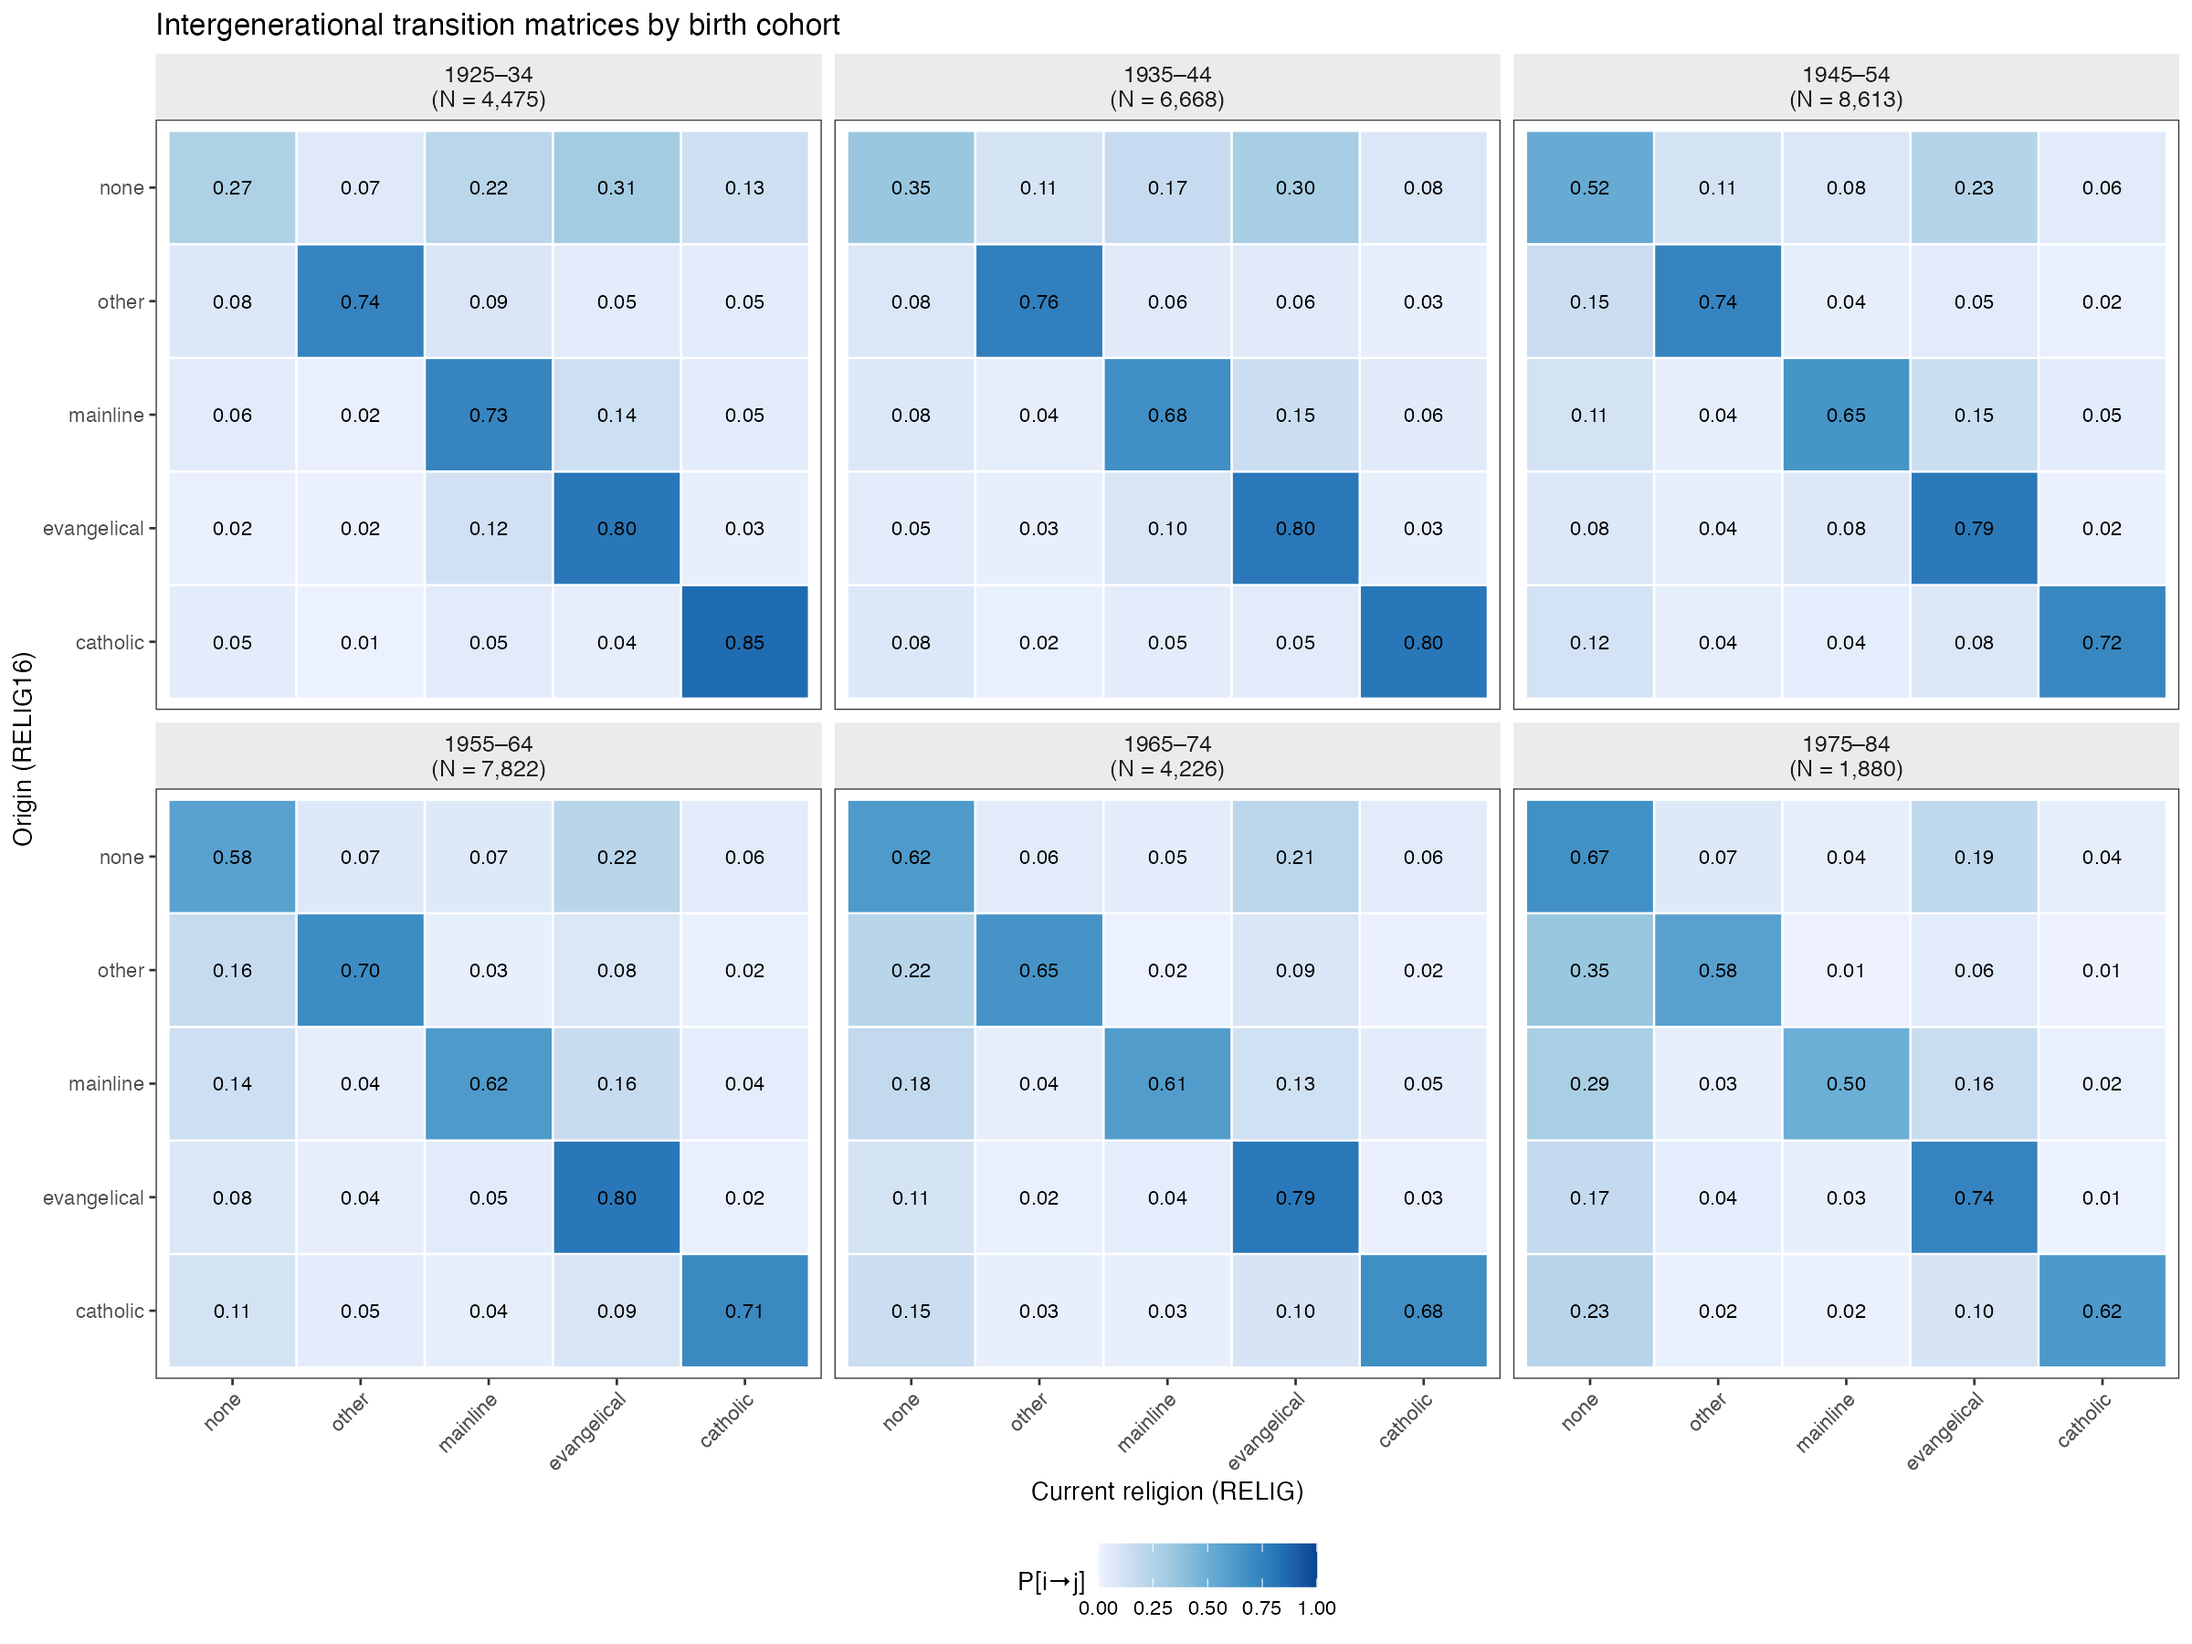
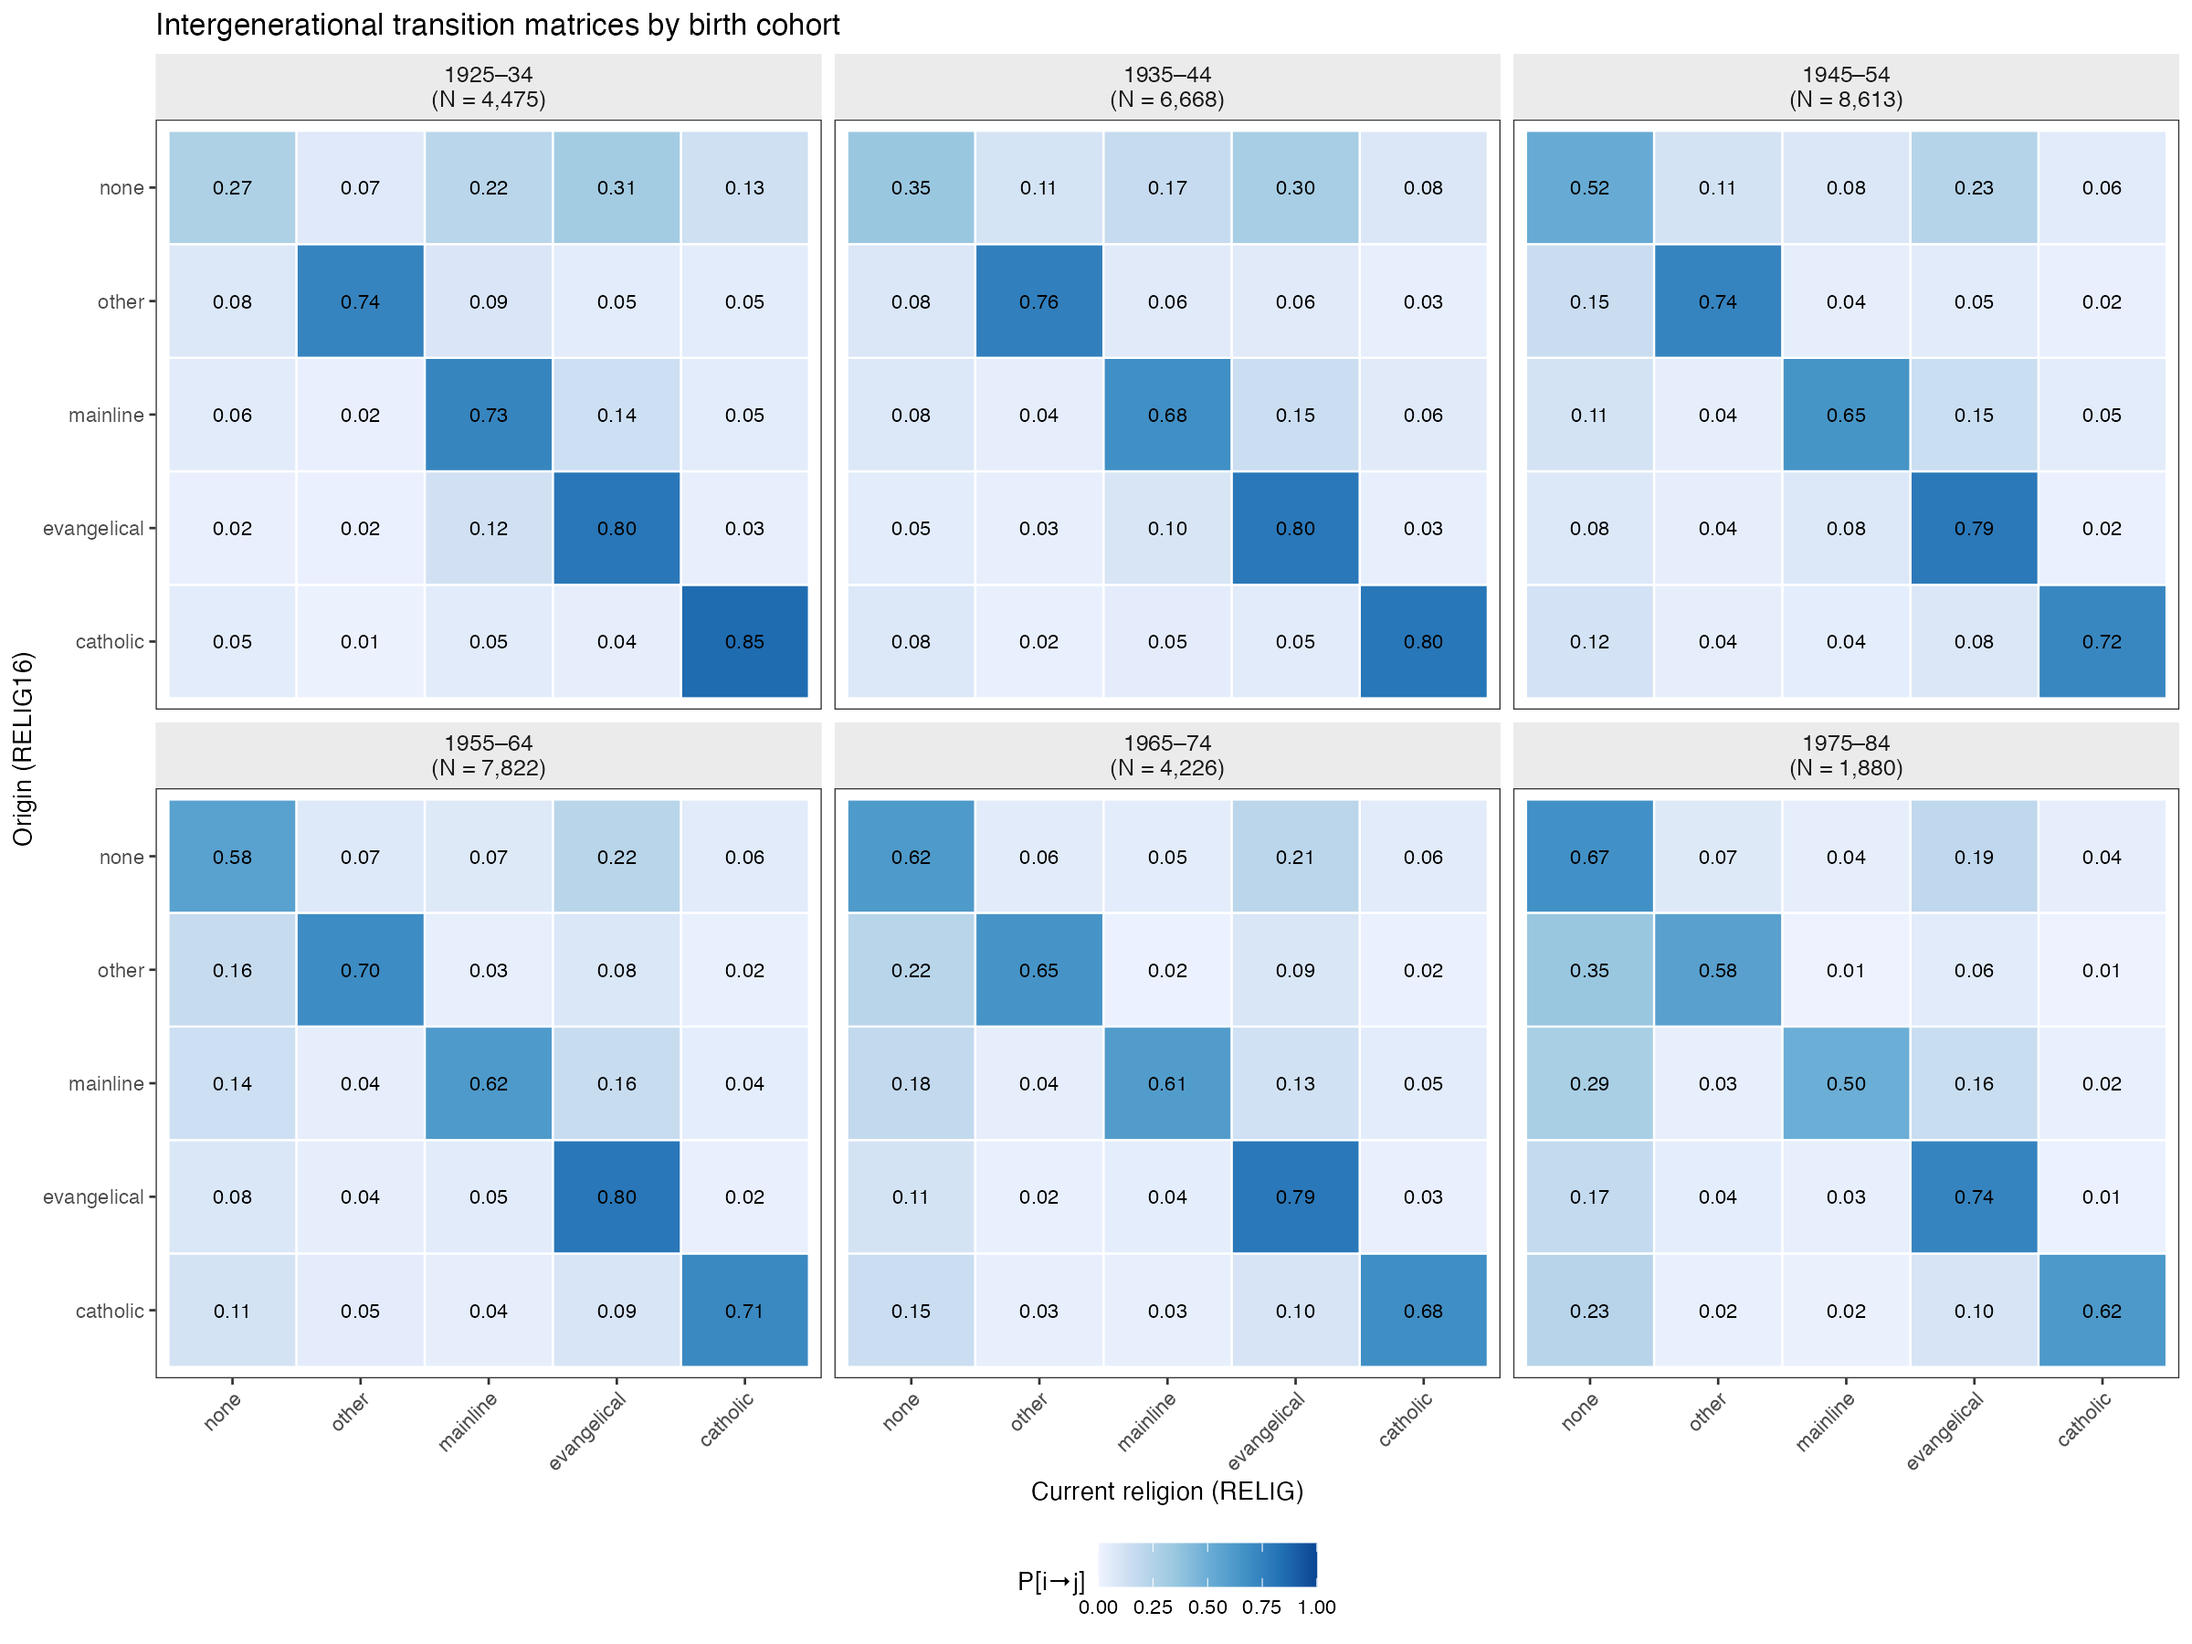
fertility

Changed region(s): [[0.9375, 0.84, 0.9688, 0.8711], [0.2188, 0.4356, 0.25, 0.4667]]

diff --git a/CLAUDE.md b/CLAUDE.md
@@ -122,38 +122,6 @@ Three frameworks map onto specific predictions about memory-curve shapes:
 
 Hout (2017): ~20% of Americans are "liminal" (cycling between affiliation and nonaffiliation) — complicates the absorbing-state assumption across all three frameworks.
 
----
-
-## Three-Week Action Plan
-
-| Week | Days | Tasks |
-|------|------|-------|
-| 1 | 1–2 | Foundational reading |
-| 1 | 3 | State-space decision with cell-count analysis |
-| 1 | 4 | Cohort-specific transition matrices with bootstrapped CIs |
-| 1 | 5 | Eigenvalue decomposition and preliminary memory curves |
-| 2 | 6–7 | Acquire/process Add Health; construct P_AddHealth; compare to P_GSS |
-| 2 | 8–9 | NSYR comparison; GSS internal consistency check |
-| 2 | 10 | Synthesize measurement findings in 3–5 page memo |
-| 3 | 11 | Sensitivity analysis on memory curves under alternative misclassification scenarios |
-| 3 | 12 | Goodman RC model exploration |
-| 3 | 13 | Formal results assembly — all figures and tables |
-| 3 | 14–15 | Paper skeleton; draft introduction + measurement section |
-
-**Current status** (as of June 2026): Weeks 1–2 complete. GSS transition matrices built, λ₂ and memory curves computed for national cohort windows (5/10-year bins). Hout (2016) replicated and extended (Figs 1–6). Add Health W1/W3 recall bias analysis complete (`matrix-validation.R`); Add Health W1/W4 religiosity-split matrices complete (`robustness-add-health.R`). Pipeline reorganized: main analysis is stages 01–06, robustness re-cuts (non-Black, GSS-period, 6-state Black-Protestant) folded in as stages 10–12 consuming `gss_clean.rds`. The 20-year cohort bins, the regional stratification, and the attitude-stratified analysis were removed. NSYR comparison, sensitivity analysis, and LSOG validation remain pending (Week 3).
-
----
-
-## Key Unresolved Issues
-
-1. **Add Health W3 recall item confirmed**: Wave 3 includes `H3RE26` (retrospective childhood religion recall), used in `matrix-validation.R`. Wave 4 does not include an equivalent item.
-2. **Pew ATP**: Has the childhood religion item been asked at multiple ATP waves separated by enough time to test recall drift? Worth contacting Pew directly.
-3. **State-space construction**: Requires cell-count analysis. 3–4 category scheme is leading candidate; binary affiliated/unaffiliated is the fallback.
-4. **λ₂ CI width**: If CIs are too wide to detect cohort trends, shift emphasis to Altham indices d(P_t, I) across cohorts, with memory curves as the primary illustration.
-5. **Ysseldyk et al. citation error**: The Overleaf file currently has the Myers (1996) title on the Ysseldyk et al. (2010) entry — needs correction.
-
----
-
 ## Literature
 
 ### Methods (key papers)
@@ -198,7 +166,7 @@ Blume et al. (forthcoming), Wodtke et al. 2026, Singer & Spilerman 1976, Barthol
 | `code/12-robustness-bp.R` | **Robustness**: 6-state scheme (Black Protestant separate) via `reltrad_bp`; 10-year memory curves + diagonal persistence → `output/figures/bp/`. Consumes `gss_clean.rds` |
 | `code/13-robustness-nativity.R` | **Robustness**: nativity-stratified 10-year matrices (US-born vs. foreign-born, 3 cohort windows 1950–1979) + diagonal persistence figure → `output/figures/nativity/`. Consumes `gss_clean.rds` |
 | `code/14-robustness-sex.R` | **Robustness**: sex-stratified 10-year matrices (male/female, 5 cohort windows 1940–1989) + diagonal persistence figure → `output/figures/sex/`. Consumes `gss_clean.rds` |
-| `code/15-robustness-political.R` | **Robustness**: political-stratified 10-year matrices (partyid narrow/broad, polviews narrow/broad; 5 cohort windows 1940–1989) + per-variable diagonal persistence figures → `output/figures/political/`. Consumes `gss_clean.rds` |
+| `code/15-robustness-political.R` | **Robustness**: political-stratified 10-year matrices (partyid narrow/broad, polviews narrow/broad; 5 cohort windows 1940–1989) + per-variable diagonal persis`tence figures → `output/figures/political/`. Consumes `gss_clean.rds` |
 | `code/robustness-add-health.R` | **Robustness** (run manually — needs restricted `add-health/` files): Add Health W1→W4 religiosity-split transition matrices, console-only |
 | `code/matrix-validation.R` | Add Health W1/W3 recall bias analysis (PA22 vs. H3RE26) |
 | `code/utils.R` | Shared functions: matrix math, memory measures, plotting helpers |
